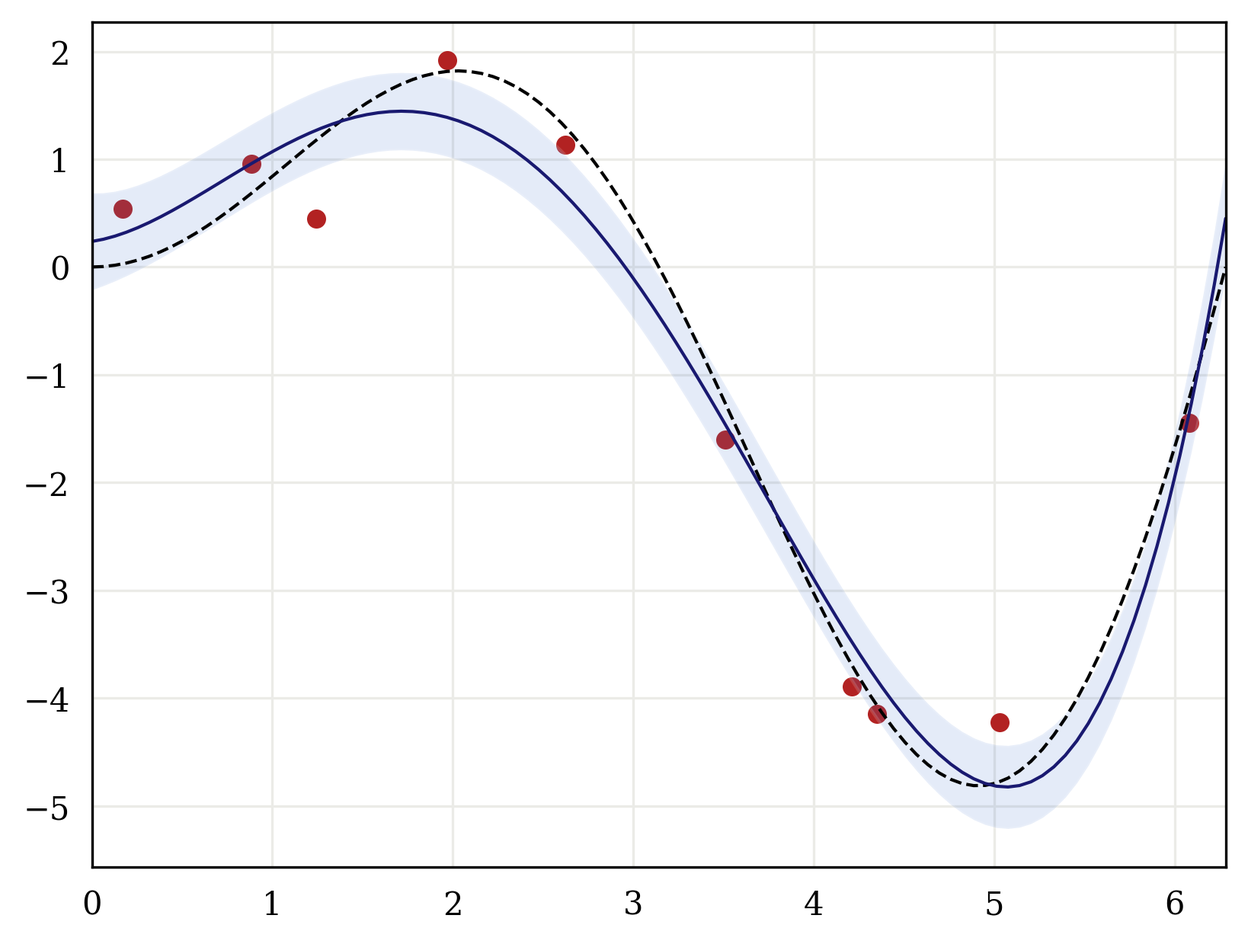
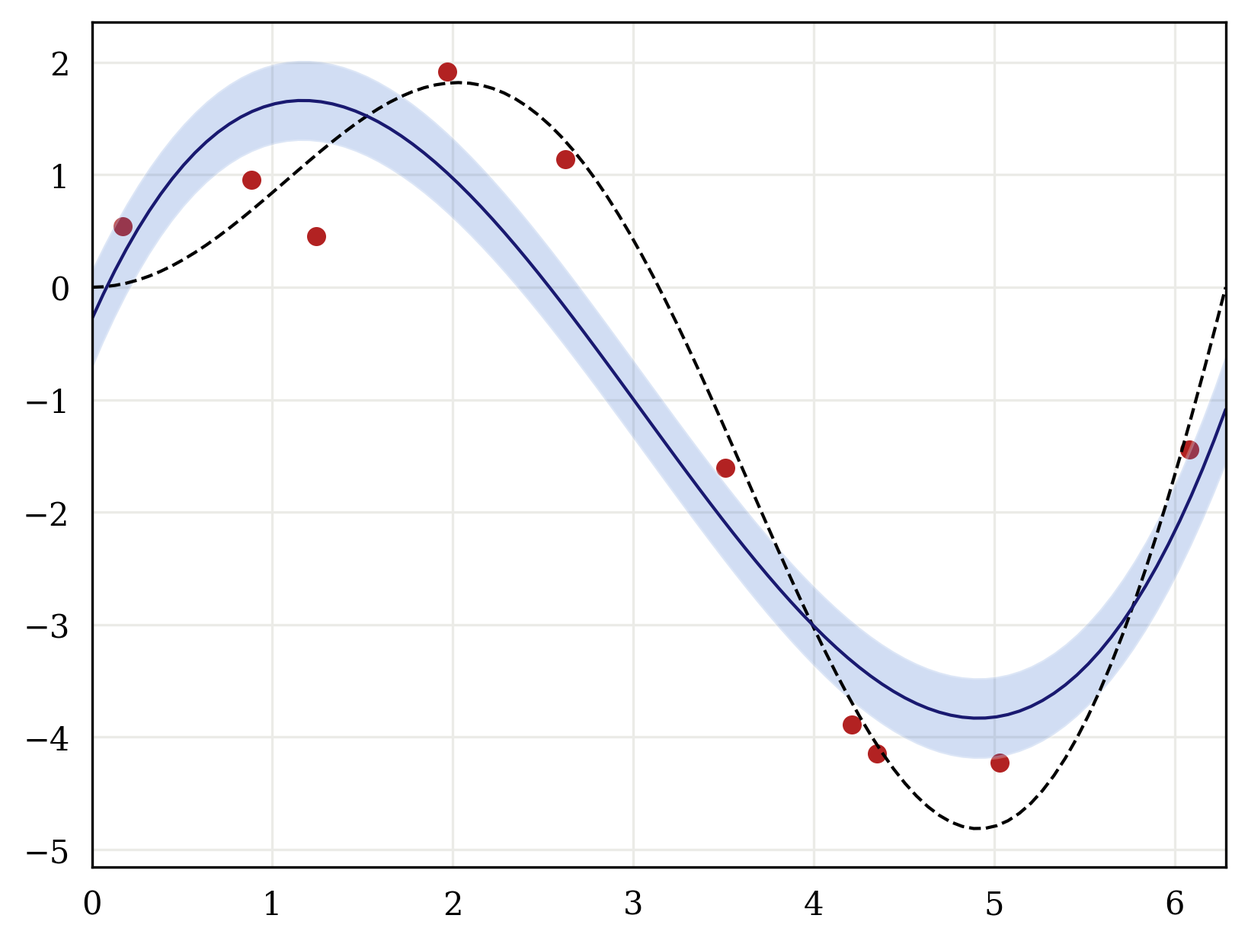
Site update

diff --git a/posts/gp_intro/index.html b/posts/gp_intro/index.html
@@ -123,12 +123,12 @@
       
       
       
-      <time datetime="2025-06-13T00:00:00&#43;00:00">June 13, 2025</time>
+      <time datetime="2025-08-18T00:00:00&#43;00:00">August 18, 2025</time>
       
 
       
       &nbsp; · &nbsp;
-      24 min read
+      23 min read
       
     </p>
 
@@ -139,42 +139,12 @@
   
 
   
-  <aside class="toc">
-    <p><strong>Table of contents</strong></p>
-    <nav id="TableOfContents">
-  <ul>
-    <li><a href="#bayesian-linear-regression">Bayesian linear regression</a>
-      <ul>
-        <li><a href="#the-linear-model">The linear model</a></li>
-        <li><a href="#computing-the-parameters">Computing the parameters</a></li>
-        <li><a href="#making-predictions">Making predictions</a></li>
-        <li><a href="#bayesian-linear-regression-in-python">Bayesian linear regression in Python</a></li>
-      </ul>
-    </li>
-    <li><a href="#the-kernel-trick">The kernel trick</a>
-      <ul>
-        <li><a href="#comments-on-valid-kernel-functions">Comments on valid kernel functions</a></li>
-      </ul>
-    </li>
-    <li><a href="#gaussian-process-regression">Gaussian process regression</a>
-      <ul>
-        <li><a href="#exact-observations">Exact observations</a></li>
-        <li><a href="#noisy-observations">Noisy observations</a></li>
-        <li><a href="#gaussian-process-regression-in-python">Gaussian process regression in Python</a></li>
-        <li><a href="#varying-the-hyperparameters">Varying the hyperparameters</a></li>
-      </ul>
-    </li>
-    <li><a href="#references">References</a></li>
-  </ul>
-</nav>
-  </aside>
-  
 
   
 
   <div class="single-content">
     <!-- TO DO:
-* positive definite = PD?
+* proper way to format footnote headers
 * ctrl + f: we -> I, when applicable
 * change \mid to \Big| where appropriate
 * am I using \phi instead of \bphi in some places?
@@ -185,9 +155,7 @@
 * double check formulas in `ZeroMeanGP` class -> when to use K vs. K + sigma^2I
 * when to use \btheta vs. \theta
 -->
-<p>Gaussian processes (GPs) have always been a particularly confounding topic for me in machine learning (ML). Many introductions talk about the beauty of implicitly defining infinite-dimensional features in function space, or performing Bayesian inference directly in the space of functions. These explanations can seem daunting at first, but in this blog I aim to clarify things and build up to GPs from a basic linear model.</p>
-<p>spelled-out introduction (with code!).</p>
-<p>In this blog I attempt to accumulate &hellip; from different sources, as well as providing my own explanations to present only what I think is the core of understanding GPs.</p>
+<p>Gaussian processes (GPs) have always been a particularly confounding topic for me in machine learning. In this blog, I attempt to present a spelled-out introduction to GPs, building up from a simple linear model. I provide both the underlying mathematics as well as a Python implementation. For the sake of clarity, I omit certain practical considerations regarding numerical stability, computational complexity, etc., which can all be found in standard treatments of GPs.</p>
 <h2 id="bayesian-linear-regression">Bayesian linear regression</h2>
 <h3 id="the-linear-model">The linear model</h3>
 <p>To build the foundation for GPs, I&rsquo;ll start by considering a Bayesian treatment of linear regression. We&rsquo;ll see that this is in fact a basic example of a GP.</p>
@@ -211,11 +179,11 @@ $$</p>
 \phi_{m-1}(\x)
 \end{bmatrix}.
 $$</p>
-<p>Again, by defining $\phi_0(\x) = 1$, we can implicitly incorporate a bias term. Now, we can redefine our model in terms of these basis functions:</p>
+<p>Again, letting $\phi_0(\x) = 1$ implicitly defines a bias term. Now, we can redefine our model in terms of these basis functions:</p>
 <p>$$
 f(\x; \w) = \bphi\T\w,
 $$</p>
-<p>where $\bphi = \phi(\x)$, and I&rsquo;ve abused notation by now letting $\w \in \R^m$. If the basis functions ${\phi_i}$ are nonlinear in terms of $\x$, we can model nonlinear functions of the features while still enjoying the benefits of a linear model, since $f$ is linear in terms of the learned parameters $\w$.</p>
+<p>where $\bphi = \phi(\x)$, and I&rsquo;ve abused notation by now letting $\w \in \R^m$. If the basis functions ${\phi_i}$ are nonlinear in terms of $\x$, we can model nonlinear relatiomships while still enjoying the benefits of a linear model, since $f$ is linear in terms of the learned parameters $\w$.</p>
 <p>For example, suppose we have a one-dimensional input $x$, and we wish to model the class of polynomials up to degree $m-1$. Then, we simply define $\phi_j(x) = x^j$, which gives the following model:</p>
 <p>$$
 \begin{align*}
@@ -234,30 +202,30 @@ $$</p>
 p(y \mid \x, \w, \sigma^2) = \Norm(y \mid f(\x; \w), \sigma^2).
 \end{align*}
 $$</p>
-<p>Before moving forward, I&rsquo;ll make a quick note on notation: when referring to a general probability distribution $p$, we list the unobserved variables on the LHS of the conditional and the observed variables on the RHS, including hyperparameters like $\sigma^2$, in no particular order. For example, $p(y \mid \x, \w, \sigma^2) = p(y \mid \w, \sigma^2, \x)$. It&rsquo;s completely arbitrary what order the variables are in, so long as they fall on the correct side of the conditional, and often certain variables are omitted from the notation and are implicitly assumed. From this point, I will omit hyperparameters from the general expressions for distributions. However, when we refer to a specific distribution like the Gaussian, the positions of given variables follow certain conventions: the first position after the conditional is reserved for the mean, and the second position is reserved for the variance, hence I&rsquo;ll write $p(y \mid \x, \w) = \Norm(y \mid f(\x; \w), \sigma^2)$.</p>
+<p>Before moving forward, I&rsquo;ll make a quick note on notation: when referring to a general probability distribution $p$, we list the unobserved variables on the LHS of the conditional and the observed variables on the RHS, including hyperparameters like $\sigma^2$, in no particular order. For example, $p(y \mid \x, \w, \sigma^2) = p(y \mid \w, \sigma^2, \x)$. It&rsquo;s completely arbitrary what order the variables are in, so long as they fall on the correct side of the conditional, and often certain variables are omitted from the notation and implicitly assumed. From this point, I will omit hyperparameters from the general expressions for distributions. However, when we refer to a specific distribution like the Gaussian, the positions of given variables follow certain conventions: the first position after the conditional is reserved for the mean, and the second position is reserved for the variance, hence I&rsquo;ll write $p(y \mid \x, \w) = \Norm(y \mid f(\x; \w), \sigma^2)$.</p>
 <h3 id="computing-the-parameters">Computing the parameters</h3>
 <p>Now, suppose we observe some iid dataset $\cD = (\X, \y)$, where $\X \in \R^{d\times n}$ is the matrix whose columns are the $n$ observed input vectors, and $\y = (y_1, y_2 ,\ldots, y_n)\T$ contains the correspondng target variables. Moreover, we can write the matrix containing our feature vectors as $\bPhi \in \R^{m\times n}$. Then, we have the following matrix equation:</p>
 <p>$$
 \y = \bPhi\T\w + \bepsilon,
 $$</p>
-<p>where $\bepsilon \sim \Norm(0, \sigma^2\I)$. As is often the case in supervised learning, we seek to find reasonable values for the parameters $\w$ in light of this observed data. In the frequentist approach to linear regression, we might model the likelihood function:</p>
+<p>where $\bepsilon \sim \Norm(\zv, \sigma^2\I)$. As is often the case in supervised learning, we seek to find reasonable values for the parameters $\w$ in light of this observed data. In the frequentist approach to linear regression, we might model the likelihood function:</p>
 <p>$$
 \begin{align*}
 p(\cD \mid \w) &amp;= p(\y \mid \X, \w) \\
 &amp;= p(y_1, \dots, y_n \mid \x_1, \dots, \x_n, \w) \\
-\text{\scriptsize (from iid assumption)} \qquad &amp;= \prod_{i=1}^n p(y_i \mid \x, \w) \\
+\text{\scriptsize (from iid assumption)} \qquad &amp;= \prod_{i=1}^n p(y_i \mid \x_i, \w) \\
 &amp;= \prod_{i=1}^n \Norm(y_i \mid f(\x_i; \w), \sigma^2).
 \end{align*}
 $$</p>
 <p>Then, we would maximize this expression with respect to $\w$, which would give a point estimate for the parameters.</p>
 <p>Instead, we will take a Bayesian treatment, which will allow us to compute a probability distribution over all possible values of of the parameters. To do so, we start by defining a prior on $\w$:</p>
 <p>$$
-p(\w) = \Norm \left( \w \mid 0, \bSigma \right).
+p(\w) = \Norm \left( \w \mid \zv, \bSigma \right).
 $$</p>
 <p>With no previous information about $\w$, it&rsquo;s reasonable to assume that all values of $\w$ are equally likely &mdash; this corresponds to a zero-mean Gaussian. Furthermore, we often assume the elements of $\w$ are independent, so $\bSigma = \alpha\I$, for some constant $\alpha$. However, I&rsquo;ll continue with the general form for the prior covariance.</p>
 <p>Now, we&rsquo;d like to infer the values of $\w$ from the observed data by computing the posterior distribution $p(\w \mid \cD)$. To do so, we can model the joint distribution of $\y$ and $\w$, then use the <a href="../gaussian/#conditioning">rules for conditioning</a> on multivariate Guassian distributions.<sup id="fnref:3"><a href="#fn:3" class="footnote-ref" role="doc-noteref">3</a></sup> First, we note that $\y$ is the <a href="../gaussian/#sum-of-gaussians">sum of two Gaussians</a>; the transformed $\bPhi\T\w$, and $\bepsilon$. Thus, $\y$ will be Gaussian-distributed as follows:</p>
 <p>$$
-p(\y \mid \X) = \Norm \left( \y \bmid 0, \bPhi\T\bSigma\bPhi + \sigma^2\I \right).
+p(\y \mid \X) = \Norm \left( \y \bmid \zv, \bPhi\T\bSigma\bPhi + \sigma^2\I \right).
 $$</p>
 <p>Then, we compute the covariance between $\y$ and $\w$:</p>
 <p>$$
@@ -269,7 +237,7 @@ p(\y, \w \mid \X) = \Norm \left( \left. \begin{bmatrix}
 \y \\
 \w
 \end{bmatrix}\right\vert
-0, \begin{bmatrix}
+\zv, \begin{bmatrix}
 \bPhi\T\bSigma\bPhi + \sigma^2\I &amp; \bPhi\T\bSigma \\
 \bSigma\bPhi &amp; \bSigma
 \end{bmatrix}
@@ -287,7 +255,7 @@ $$</p>
 <p>$$
 p(\y_\ast \mid \X_\ast, \cD) = \int p(\y_\ast \mid \X_\ast, \w) p(\w \mid \cD) d\w,
 $$</p>
-<p>where $p(\y_\ast \mid \X_\ast, \w)$ is just the likelihood of the new test points and $p(\w\mid\cD)$ is the previously computed posterior parameter distribution. This integral is tractable, but takes a bit of work.<sup id="fnref:4"><a href="#fn:4" class="footnote-ref" role="doc-noteref">4</a></sup> However, an easier way to compute the predictive distribution is to note that, under our model,</p>
+<p>where $p(\y_\ast \mid \X_\ast, \w)$ is the likelihood of the new test points. This integral is tractable, but takes a bit of work.<sup id="fnref:4"><a href="#fn:4" class="footnote-ref" role="doc-noteref">4</a></sup> An easier way to compute the predictive distribution is to note that, under our model,</p>
 <p>$$
 \y_\ast = \bPhi_\ast\T\w + \bepsilon.
 $$</p>
@@ -305,7 +273,7 @@ $$</p>
 </span></span><span style="display:flex;"><span>
 </span></span><span style="display:flex;"><span>xs = np.linspace(0, 2*pi, 100)
 </span></span><span style="display:flex;"><span>ys = f(xs)
-</span></span></code></pre></div><p>This generates 100 evenly-spaced points on the interval $[0, 2\pi]$, as well as the corresponding functional outputs on the domain according to the function $f(x) = x\sin(x)$. To construct a training set, we can uniformly sample points in the domain and evaluate their corresponding functional values:</p>
+</span></span></code></pre></div><p>This generates 100 evenly-spaced points on the interval $[0, 2\pi]$, as well as the corresponding functional outputs according to the function $f(x) = x\sin(x)$. To construct a training set, we can uniformly sample points in the domain and evaluate their corresponding functional values:</p>
 <div class="highlight"><pre tabindex="0" style="background-color:#fff;-moz-tab-size:4;-o-tab-size:4;tab-size:4;"><code class="language-py" data-lang="py"><span style="display:flex;"><span>np.random.seed(1)
 </span></span><span style="display:flex;"><span>
 </span></span><span style="display:flex;"><span>n_samples = 10
@@ -315,7 +283,7 @@ $$</p>
 </span></span><span style="display:flex;"><span>
 </span></span><span style="display:flex;"><span>X_data = np.random.uniform(0, 2*pi, size=n_samples)
 </span></span><span style="display:flex;"><span>y_data = f(X_data) + epsilon
-</span></span></code></pre></div><p>I&rsquo;ve also added a noise term $\epsilon$ with variance 0.1 to the observations. This gives a dataset of observations $\cD = (\X, \y)$ as we saw before, and our goal is to approximate the function $f$ on the entire domain. Before going further, it&rsquo;s always a good idea to visualize your data (if applicable) for any machine learning task:</p>
+</span></span></code></pre></div><p>I&rsquo;ve also added a noise term <code>epsilon</code> with variance 0.1 to the observations. This gives a dataset of observations $\cD = (\X, \y)$ as we saw before, and our goal is to approximate the function $f$ on the entire domain. Before going further, it&rsquo;s always a good idea to visualize the data (if applicable) for any machine learning task:</p>
 <div class="highlight"><pre tabindex="0" style="background-color:#fff;-moz-tab-size:4;-o-tab-size:4;tab-size:4;"><code class="language-py" data-lang="py"><span style="display:flex;"><span><span style="color:#00f">import</span> matplotlib.pyplot <span style="color:#00f">as</span> plt
 </span></span><span style="display:flex;"><span><span style="color:#00f">import</span> seaborn <span style="color:#00f">as</span> sns
 </span></span><span style="display:flex;"><span>
@@ -331,10 +299,14 @@ $$</p>
 </span></span><span style="display:flex;"><span>               <span style="color:#a31515">&#34;grid.alpha&#34;</span>: 0.4 })
 </span></span><span style="display:flex;"><span>sns.set_palette(<span style="color:#a31515">&#39;muted&#39;</span>)
 </span></span><span style="display:flex;"><span>
-</span></span><span style="display:flex;"><span>plt.plot(xs, ys, c=<span style="color:#a31515">&#39;k&#39;</span>, ls=<span style="color:#a31515">&#39;dashed&#39;</span>, lw=1)  <span style="color:#008000"># Plot f(x) over the domain</span>
-</span></span><span style="display:flex;"><span>plt.scatter(X_data, y_data, c=<span style="color:#a31515">&#39;firebrick&#39;</span>, s=25); <span style="color:#008000"># Plot training samples</span>
+</span></span><span style="display:flex;"><span><span style="color:#00f">def</span> create_base_plot():
+</span></span><span style="display:flex;"><span>    fig, ax = plt.subplots()
+</span></span><span style="display:flex;"><span>    ax.plot(xs, ys, c=<span style="color:#a31515">&#39;k&#39;</span>, ls=<span style="color:#a31515">&#39;dashed&#39;</span>, lw=1, label=<span style="color:#a31515">r</span><span style="color:#a31515">&#39;$f(x) = x\sin(x)$&#39;</span>)
+</span></span><span style="display:flex;"><span>    ax.scatter(X_data, y_data, c=<span style="color:#a31515">&#39;firebrick&#39;</span>, s=25, label=<span style="color:#a31515">&#39;Training samples&#39;</span>)
+</span></span><span style="display:flex;"><span>    ax.set_xlim(0, 2*pi)
+</span></span><span style="display:flex;"><span>    <span style="color:#00f">return</span> ax
 </span></span><span style="display:flex;"><span>
-</span></span><span style="display:flex;"><span>plt.xlim(0, 2*pi)
+</span></span><span style="display:flex;"><span>create_base_plot()
 </span></span></code></pre></div><div id="fig1" class="figure">
    <img src="figures/figure1.png" alt="Figure 1" style="width:80%; margin-left:auto; margin-right:auto">
 </div>
@@ -417,7 +389,7 @@ $$</p>
 </span></span><span style="display:flex;"><span>
 </span></span><span style="display:flex;"><span>    <span style="color:#00f">return</span> mean, std
 </span></span></code></pre></div><p>The expressions for computing the distributions of interest are just those derived in the previous sections. Using these functions, we can now perform Bayesian linear regression:</p>
-<div class="highlight"><pre tabindex="0" style="background-color:#fff;-moz-tab-size:4;-o-tab-size:4;tab-size:4;"><code class="language-py" data-lang="py"><span style="display:flex;"><span>m = 5  <span style="color:#008000"># Degree of polynomials in feature space is m - 1</span>
+<div class="highlight"><pre tabindex="0" style="background-color:#fff;-moz-tab-size:4;-o-tab-size:4;tab-size:4;"><code class="language-py" data-lang="py"><span style="display:flex;"><span>m = 4  <span style="color:#008000"># Degree of polynomials in feature space is m - 1</span>
 </span></span><span style="display:flex;"><span>
 </span></span><span style="display:flex;"><span>X_poly = poly_feature_transform(X_data, m)
 </span></span><span style="display:flex;"><span>
@@ -427,13 +399,9 @@ $$</p>
 </span></span><span style="display:flex;"><span>mean, std = make_predictions(X_poly, X_star_poly, y_data, sigma=.1)
 </span></span></code></pre></div><p>We can now visualize the results:</p>
 <div class="highlight"><pre tabindex="0" style="background-color:#fff;-moz-tab-size:4;-o-tab-size:4;tab-size:4;"><code class="language-py" data-lang="py"><span style="display:flex;"><span><span style="color:#00f">def</span> plot_predictions(mean, std):
-</span></span><span style="display:flex;"><span>    plt.figure()
-</span></span><span style="display:flex;"><span>    plt.plot(xs, ys, c=<span style="color:#a31515">&#39;k&#39;</span>, ls=<span style="color:#a31515">&#39;dashed&#39;</span>, lw=1, label=<span style="color:#a31515">r</span><span style="color:#a31515">&#39;$f(x) = xsin(x)$&#39;</span>)
-</span></span><span style="display:flex;"><span>    plt.scatter(X_data, y_data, c=<span style="color:#a31515">&#39;firebrick&#39;</span>, s=25, label=<span style="color:#a31515">&#39;Training samples&#39;</span>)
-</span></span><span style="display:flex;"><span>    plt.plot(xs, mean, c=<span style="color:#a31515">&#39;midnightblue&#39;</span>, lw=1, label=<span style="color:#a31515">&#39;Model predicitions&#39;</span>)  
-</span></span><span style="display:flex;"><span>    plt.fill_between(xs, mean-std, mean+std, alpha=.25, label=<span style="color:#a31515">&#39;1 std&#39;</span>)
-</span></span><span style="display:flex;"><span>
-</span></span><span style="display:flex;"><span>    plt.xlim(0, 2*pi)
+</span></span><span style="display:flex;"><span>    ax = create_base_plot()
+</span></span><span style="display:flex;"><span>    ax.plot(xs, mean, c=<span style="color:#a31515">&#39;midnightblue&#39;</span>, lw=1, label=<span style="color:#a31515">&#39;Model predictions&#39;</span>)  
+</span></span><span style="display:flex;"><span>    ax.fill_between(xs, mean-std, mean+std, alpha=.25, label=<span style="color:#a31515">&#39;1 std&#39;</span>)
 </span></span><span style="display:flex;"><span>
 </span></span><span style="display:flex;"><span>plot_predictions(mean, std)
 </span></span></code></pre></div><div id="fig1" class="figure">
@@ -614,19 +582,19 @@ $$</p>
 </span></span><span style="display:flex;"><span>    <span style="color:#00f">def</span> __init__(
 </span></span><span style="display:flex;"><span>        self, X_train: np.ndarray, y_train: np.ndarray, kernel, sigma: float = 0.1
 </span></span><span style="display:flex;"><span>    ):
-</span></span><span style="display:flex;"><span>    <span style="color:#a31515">&#34;&#34;&#34;
-</span></span></span><span style="display:flex;"><span><span style="color:#a31515">    Initialize GP model.
+</span></span><span style="display:flex;"><span>        <span style="color:#a31515">&#34;&#34;&#34;
+</span></span></span><span style="display:flex;"><span><span style="color:#a31515">        Initialize GP model.
 </span></span></span><span style="display:flex;"><span><span style="color:#a31515">
-</span></span></span><span style="display:flex;"><span><span style="color:#a31515">    Args:
-</span></span></span><span style="display:flex;"><span><span style="color:#a31515">    X_train: np.ndarray
-</span></span></span><span style="display:flex;"><span><span style="color:#a31515">        Training data of shape (d, n); d is dimension of feature space,
-</span></span></span><span style="display:flex;"><span><span style="color:#a31515">        n is number of samples
-</span></span></span><span style="display:flex;"><span><span style="color:#a31515">    y_train: np.ndarray
-</span></span></span><span style="display:flex;"><span><span style="color:#a31515">        Training labels of shape (n,)
-</span></span></span><span style="display:flex;"><span><span style="color:#a31515">    kernel:
-</span></span></span><span style="display:flex;"><span><span style="color:#a31515">        Kernel function; takes two vectors as input and returns a scalar
-</span></span></span><span style="display:flex;"><span><span style="color:#a31515">    sigma: Noise variance
-</span></span></span><span style="display:flex;"><span><span style="color:#a31515">    &#34;&#34;&#34;</span>
+</span></span></span><span style="display:flex;"><span><span style="color:#a31515">        Args:
+</span></span></span><span style="display:flex;"><span><span style="color:#a31515">        X_train: np.ndarray
+</span></span></span><span style="display:flex;"><span><span style="color:#a31515">            Training data of shape (d, n); d is dimension of feature space,
+</span></span></span><span style="display:flex;"><span><span style="color:#a31515">            n is number of samples
+</span></span></span><span style="display:flex;"><span><span style="color:#a31515">        y_train: np.ndarray
+</span></span></span><span style="display:flex;"><span><span style="color:#a31515">            Training labels of shape (n,)
+</span></span></span><span style="display:flex;"><span><span style="color:#a31515">        kernel:
+</span></span></span><span style="display:flex;"><span><span style="color:#a31515">            Kernel function; takes two vectors as input and returns a scalar
+</span></span></span><span style="display:flex;"><span><span style="color:#a31515">        sigma: Noise variance
+</span></span></span><span style="display:flex;"><span><span style="color:#a31515">        &#34;&#34;&#34;</span>
 </span></span><span style="display:flex;"><span>        self.kernel = kernel
 </span></span><span style="display:flex;"><span>        self.sigma = sigma
 </span></span><span style="display:flex;"><span>        self.set_training_data(X_train, y_train)
@@ -720,14 +688,31 @@ $$</p>
 </span></span><span style="display:flex;"><span>        K_inv = np.linalg.inv(K)
 </span></span><span style="display:flex;"><span>        mll = - np.log(np.linalg.det(K)) - self._y_train.T @ K_inv @ self._y_train
 </span></span><span style="display:flex;"><span>        <span style="color:#00f">return</span> mll
-</span></span></code></pre></div><p>Since we are passing a generic function to the GP model, we can change the parameters of the kernel function by using the <code>partial</code> method:</p>
-<div class="highlight"><pre tabindex="0" style="background-color:#fff;-moz-tab-size:4;-o-tab-size:4;tab-size:4;"><code class="language-py" data-lang="py"><span style="display:flex;"><span><span style="color:#00f">from</span> functools <span style="color:#00f">import</span> partial
+</span></span></code></pre></div><p>Then, we can define the following to optimize the MLL with respect to the hyperparameters:</p>
+<div class="highlight"><pre tabindex="0" style="background-color:#fff;-moz-tab-size:4;-o-tab-size:4;tab-size:4;"><code class="language-py" data-lang="py"><span style="display:flex;"><span><span style="color:#00f">from</span> scipy.optimize <span style="color:#00f">import</span> minimize
 </span></span><span style="display:flex;"><span>
-</span></span><span style="display:flex;"><span>kernel = partial(squared_exponential, amp=1.0, length=0.5)
+</span></span><span style="display:flex;"><span><span style="color:#00f">def</span> optimize_hyperparams(X_data, y_data, init_params):
+</span></span><span style="display:flex;"><span>    <span style="color:#00f">def</span> objective(params):
+</span></span><span style="display:flex;"><span>        amp, length, sigma = params
+</span></span><span style="display:flex;"><span>        kernel = partial(squared_exponential, amp=amp, length=length)
+</span></span><span style="display:flex;"><span>        gp = ZeroMeanGP(X_data, y_data, kernel, sigma=sigma)
+</span></span><span style="display:flex;"><span>        <span style="color:#00f">return</span> -gp.compute_mll()  <span style="color:#008000"># negative because we minimize</span>
+</span></span><span style="display:flex;"><span>    
+</span></span><span style="display:flex;"><span>    result = minimize(objective, init_params)
+</span></span><span style="display:flex;"><span>    <span style="color:#00f">return</span> result.x
+</span></span></code></pre></div><p>Finally, let&rsquo;s find the optimal hyperparameters and once more make predictions:</p>
+<div class="highlight"><pre tabindex="0" style="background-color:#fff;-moz-tab-size:4;-o-tab-size:4;tab-size:4;"><code class="language-py" data-lang="py"><span style="display:flex;"><span>init_params = (2.0, 1.0, 0.1)
+</span></span><span style="display:flex;"><span>amp, length, sigma = optimize_hyperparams(X_data, y_data, init_params)
 </span></span><span style="display:flex;"><span>
-</span></span><span style="display:flex;"><span>gp = ZeroMeanGP(X_data, y_data, kernel, sigma=0.1)
+</span></span><span style="display:flex;"><span>kernel = partial(squared_exponential, amp=amp, length=length)
+</span></span><span style="display:flex;"><span>gp = ZeroMeanGP(X_data, y_data, kernel, sigma=sigma)
+</span></span><span style="display:flex;"><span>
 </span></span><span style="display:flex;"><span>mean, cov = gp.predict(X_star)
-</span></span></code></pre></div><p>The following shows the GP fit under three different settings of these hyperparameters, as well as the corresponding MLL values:</p>
+</span></span><span style="display:flex;"><span>std = np.sqrt(cov)
+</span></span><span style="display:flex;"><span>plot_predictions(mean, std)
+</span></span></code></pre></div><div id="fig4" class="figure">
+   <img src="figures/figure4.png" alt="Figure 4" style="width:80%; margin-left:auto; margin-right:auto">
+</div>
 <h2 id="references">References</h2>
 <ol>
 <li>

diff --git a/posts/index.html b/posts/index.html
@@ -129,6 +129,32 @@
     
     
 
+    <p class="line-date">Aug 2025 </p>
+
+    &nbsp;&nbsp;&nbsp;&nbsp;&nbsp;
+
+    <div>
+        <p class="line-title">
+            <a href="/posts/gp_intro/">
+                A spelled-out introduction to Gaussian processes
+            </a>
+        </p>
+
+        
+    </div>
+</div>
+    
+
+    
+
+    
+    <div class="post-line">
+
+    
+    
+    
+    
+
     <p class="line-date">Jun 2025 </p>
 
     &nbsp;&nbsp;&nbsp;&nbsp;&nbsp;

diff --git a/index.html b/index.html
@@ -141,6 +141,28 @@
     
     
 
+    <p class="line-date">Aug 2025 </p>
+
+    &nbsp;&nbsp;&nbsp;&nbsp;&nbsp;
+
+    <div>
+        <p class="line-title">
+            <a href="/posts/gp_intro/">
+                A spelled-out introduction to Gaussian processes
+            </a>
+        </p>
+
+        
+    </div>
+</div>
+    
+    <div class="post-line">
+
+    
+    
+    
+    
+
     <p class="line-date">Jun 2025 </p>
 
     &nbsp;&nbsp;&nbsp;&nbsp;&nbsp;

diff --git a/me/index.html b/me/index.html
@@ -248,7 +248,7 @@
 <div class="post-line">
   <p class="line-date">10 Jan 2025</p>
   <div>
-      <p class="line-title">&nbsp;&nbsp;&nbsp;&nbsp;&nbsp;Presented at <a href="https://jointmathematicsmeetings.org/jmm">JMM 2025</a></p>
+      <p class="line-title">&nbsp;&nbsp;&nbsp;&nbsp;&nbsp;Presented at <a href="https://jointmathematicsmeetings.org/meetings/national/jmm2025/2314_program.html">JMM 2025</a></p>
   </div>
 </div>
 
